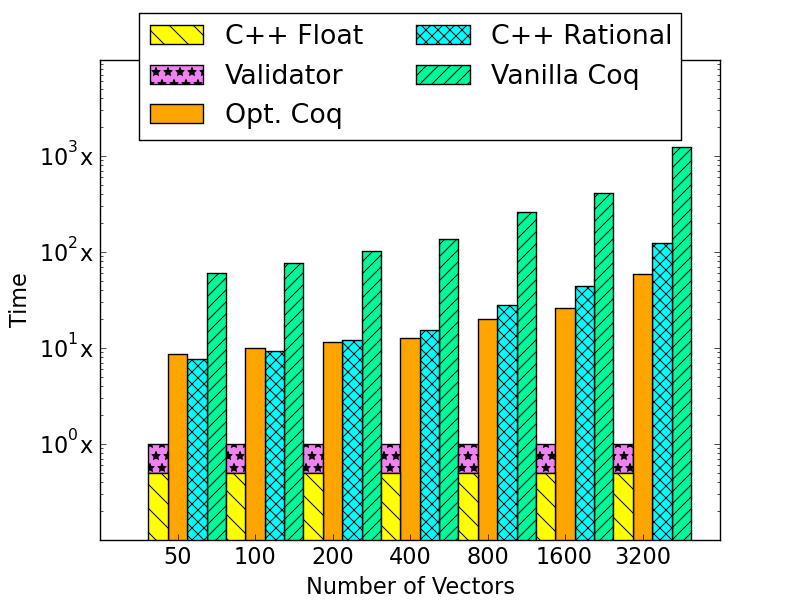
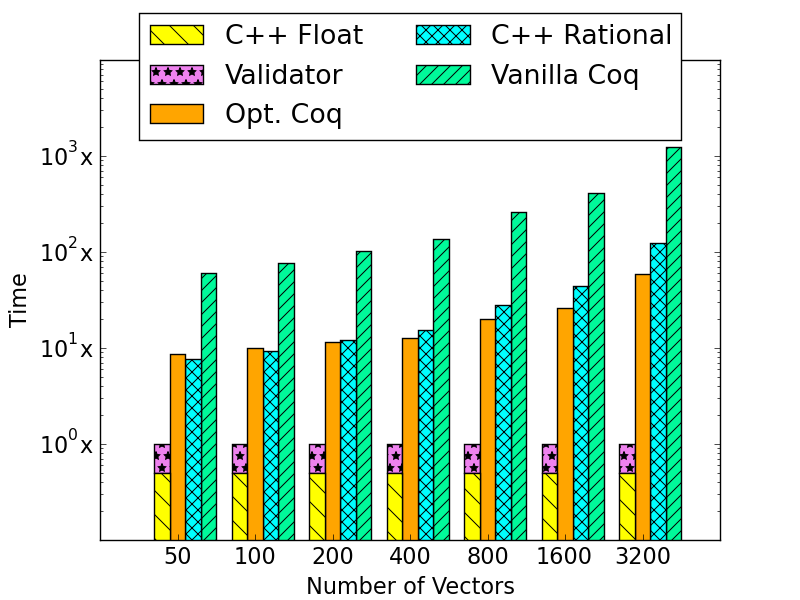
Wibble in plots

Changed region(s): [[0.1562, 0.24, 0.875, 0.9]]

diff --git a/Benchmarks/plots/makeplots.py b/Benchmarks/plots/makeplots.py
@@ -39,11 +39,11 @@ def plot_data(img_name, file_name, xlabel, yRange = None):
   E = [x / y for (x, y) in zip(E, D)]
   F = [x / y for (x, y) in zip(F, D)]
 
-  a_bar = plot.bar(X+0.375, A, color = '#00fa9a', width = 0.25, hatch='//')
-  b_bar = plot.bar(X+0.125, B, color = 'cyan',width = 0.25, hatch='xx')
-  c_bar = plot.bar(X-0.375, C, color = '#ee82ee', bottom = F, width = 0.25, hatch='*')
-  e_bar = plot.bar(X-0.125, E, color = 'orange', width = 0.25)
-  f_bar = plot.bar(X-0.375, F, color = '#ffff00', width=0.25, hatch='\\')
+  a_bar = plot.bar(X+0.3, A, color = '#00fa9a', width = 0.2, hatch='//')
+  b_bar = plot.bar(X+0.1, B, color = 'cyan',width = 0.2, hatch='xx')
+  c_bar = plot.bar(X-0.3, C, color = '#ee82ee', bottom = F, width = 0.2, hatch='*')
+  e_bar = plot.bar(X-0.1, E, color = 'orange', width = 0.2)
+  f_bar = plot.bar(X-0.3, F, color = '#ffff00', width=0.2, hatch='\\')
 
   axis.axes.get_xaxis().set_ticklabels(N)
 
@@ -70,4 +70,4 @@ def plot_data(img_name, file_name, xlabel, yRange = None):
 
 plot_data("images/VectorsPlot.png", "vectors.plot", "Number of Vectors") # [0, 9]
 plot_data("images/FeaturePlot.png", "features.plot", "Number of Features") # [0, 3]
-plot_data("images/ZPlot.png", "Z.plot", u'Precision Bound -- Q = a/Z, a ∈ [-Z, Z]') #[0, 3]
+plot_data("images/ZPlot.png", "Z.plot", u'Expected Feature Magnitude, q = a/Z, a ∈ [-Z, Z]') #[0, 3]
